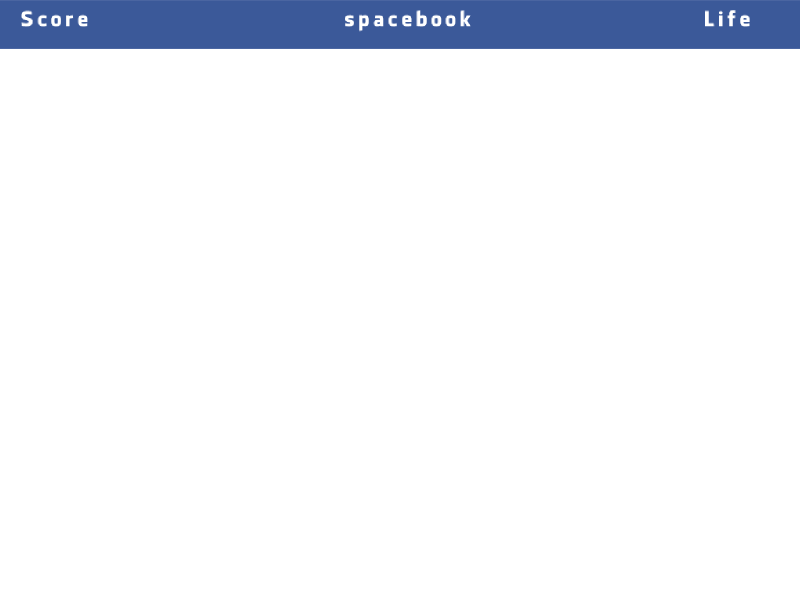
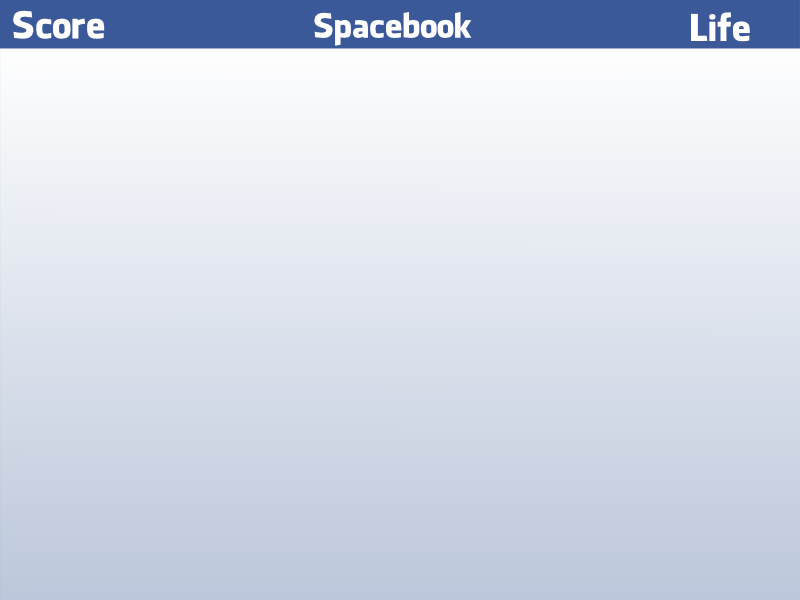
Pong aparecendo no INDEX principal, e ajustes de códigos.

diff --git a/5 em 1/js/game_1/game_1_Inimigo.js b/5 em 1/js/game_1/game_1_Inimigo.js
@@ -1,0 +1,53 @@
+function Game1PaletaInimigo()
+{
+	this.imagem = new Image();
+	this.imagem.src="imgs/game_1/paletainimigo.png";
+	this.loaded = false;
+	
+	this.tamanho_x = 40;
+    this.tamanho_y = 120;
+    this.posicao_x = 1150
+    this.posicao_y = 400
+    this.velocidade_x = 0;
+    this.velocidade_y = 5;
+    
+    this.update=function()
+    {
+    	//Colidindo com as bordas
+		this.saindodatela();
+    };
+    
+	//Colisão para não sair da tela
+    this.saindodatela=function()
+    {
+    	//saida pela direita
+    	if(this.posicao_x < 0)
+    	{
+    		this.posicao_x = 0;
+    	}
+    	
+    	//saida por cima
+    	if(this.posicao_y < 0)
+    	{
+    		this.posicao_y = 0;
+    	}
+    	
+    	//saida pela esquerda
+    	if(this.posicao_x > tela_tamanho_x - this.tamanho_x)
+    	{
+    		this.posicao_x = tela_tamanho_x - this.tamanho_x;
+    	}
+    	
+    	//saida por baixo
+    	if(this.posicao_y > tela_tamanho_y - this.tamanho_y)
+    	{
+    		this.posicao_y = tela_tamanho_y- this.tamanho_y;
+    	}
+    }
+	
+    this.draw=function()
+    {  	
+    	screen.drawImage(this.imagem, this.posicao_x, this.posicao_y)
+    };
+    
+}

diff --git a/5 em 1/index.html b/5 em 1/index.html
@@ -16,10 +16,11 @@
 		<script src="js/game_1/game_1_background.js"></script>
 		<script src="js/game_1/game_1_ball.js"></script>
 		<script src="js/game_1/game_1_pallete.js"></script>
+		<script src="js/game_1/game_1_Inimigo.js"></script>
+		<script src="js/game_1/game_1_block.js"></script>
 		<script src="js/game_1/game_1_scene_game_over.js"></script>
 		<script src="js/game_1/game_1_scene_intro.js"></script>
 		<script src="js/game_1/game_1_scene_level_1.js"></script>
-		<script src="js/game_1/game_1_scene_menu.js"></script>
 		<script src="js/game_1/game_1_scene_the_end.js"></script>
 		<script src="js/game_1/game_1.js"></script>
 

diff --git a/5 em 1/js/game_1/game_1_block.js b/5 em 1/js/game_1/game_1_block.js
@@ -1,0 +1,33 @@
+function Game1Bloco(source)
+{
+	this.imagem = new Image();
+	this.imagem.src= source;
+	this.loaded = false;
+	this.visible = true;
+	
+	//this.hp = hp;
+	//this.pontos = this.hp*2
+	
+	this.tamanho_x = 50;
+    this.tamanho_y = 100;
+    this.posicao_x = 0
+    this.posicao_y = 0
+    this.velocidade_x = 0;
+    this.velocidade_y = 0;
+	
+	this.imagem.onload = function()
+	{
+		loaded = true; 
+	};
+	
+	this.update=function()
+	{
+	
+	};
+	
+	this.draw=function()
+    {  	
+		if(this.visible)
+    	screen.drawImage(this.imagem, this.posicao_x, this.posicao_y)
+    };
+}

diff --git a/5 em 1/js/game_1/game_1_pallete.js b/5 em 1/js/game_1/game_1_pallete.js
@@ -1,5 +1,5 @@
 //paleta.js
-function Game1Pallete (player_tecla)
+function Game1Paleta (player_tecla)
 {
 	this.player_tecla = player_tecla;
 
@@ -17,8 +17,7 @@ function Game1Pallete (player_tecla)
 	//Teclas
 	this.sobe = false;
 	this.desce = false;
-    
-	
+    	
     this.update=function()
     {
 		//Movendo paleta

diff --git a/5 em 1/js/game_1/game_1_scene_game_over.js b/5 em 1/js/game_1/game_1_scene_game_over.js
@@ -1,7 +1,7 @@
-function ScenePerdeu()
+function Game1ScenePerdeu()
 {
 	this.imagem = new Image();
-	this.imagem.src = "Imagens/Fimperdeu.png"
+	this.imagem.src = "imgs/game_1/Fimperdeu.png"
 	this.loaded = false;
     
 

diff --git a/5 em 1/js/game_1/game_1_scene_the_end.js b/5 em 1/js/game_1/game_1_scene_the_end.js
@@ -1,7 +1,7 @@
-function SceneGanhou()
+function Game1SceneGanhou()
 {
 	this.imagem = new Image();
-	this.imagem.src = "Imagens/Fimganhou.png"
+	this.imagem.src = "imgs/game_1/Fimganhou.png"
 	this.loaded = false;
     
 

diff --git a/5 em 1/js/game_1/game_1_scene_intro.js b/5 em 1/js/game_1/game_1_scene_intro.js
@@ -1,4 +1,4 @@
-function SceneIntroducao()
+function Game1SceneIntroducao()
 {
 	this.imagem = new Image();
 	this.imagem.src = "imgs/game_1/Introducao.png"

diff --git a/5 em 1/js/game_1/game_1_background.js b/5 em 1/js/game_1/game_1_background.js
@@ -1,4 +1,4 @@
-function Background(source)
+function Game1Background(source)
 {
 	this.imagem = new Image();
 	this.imagem.src = source;

diff --git a/5 em 1/js/game_1/game_1_ball.js b/5 em 1/js/game_1/game_1_ball.js
@@ -1,5 +1,5 @@
 //ball.js
-function Game1Ball()
+function Game1Bola()
 {
 	//Pontos
 	var pontos_direita = 0;
